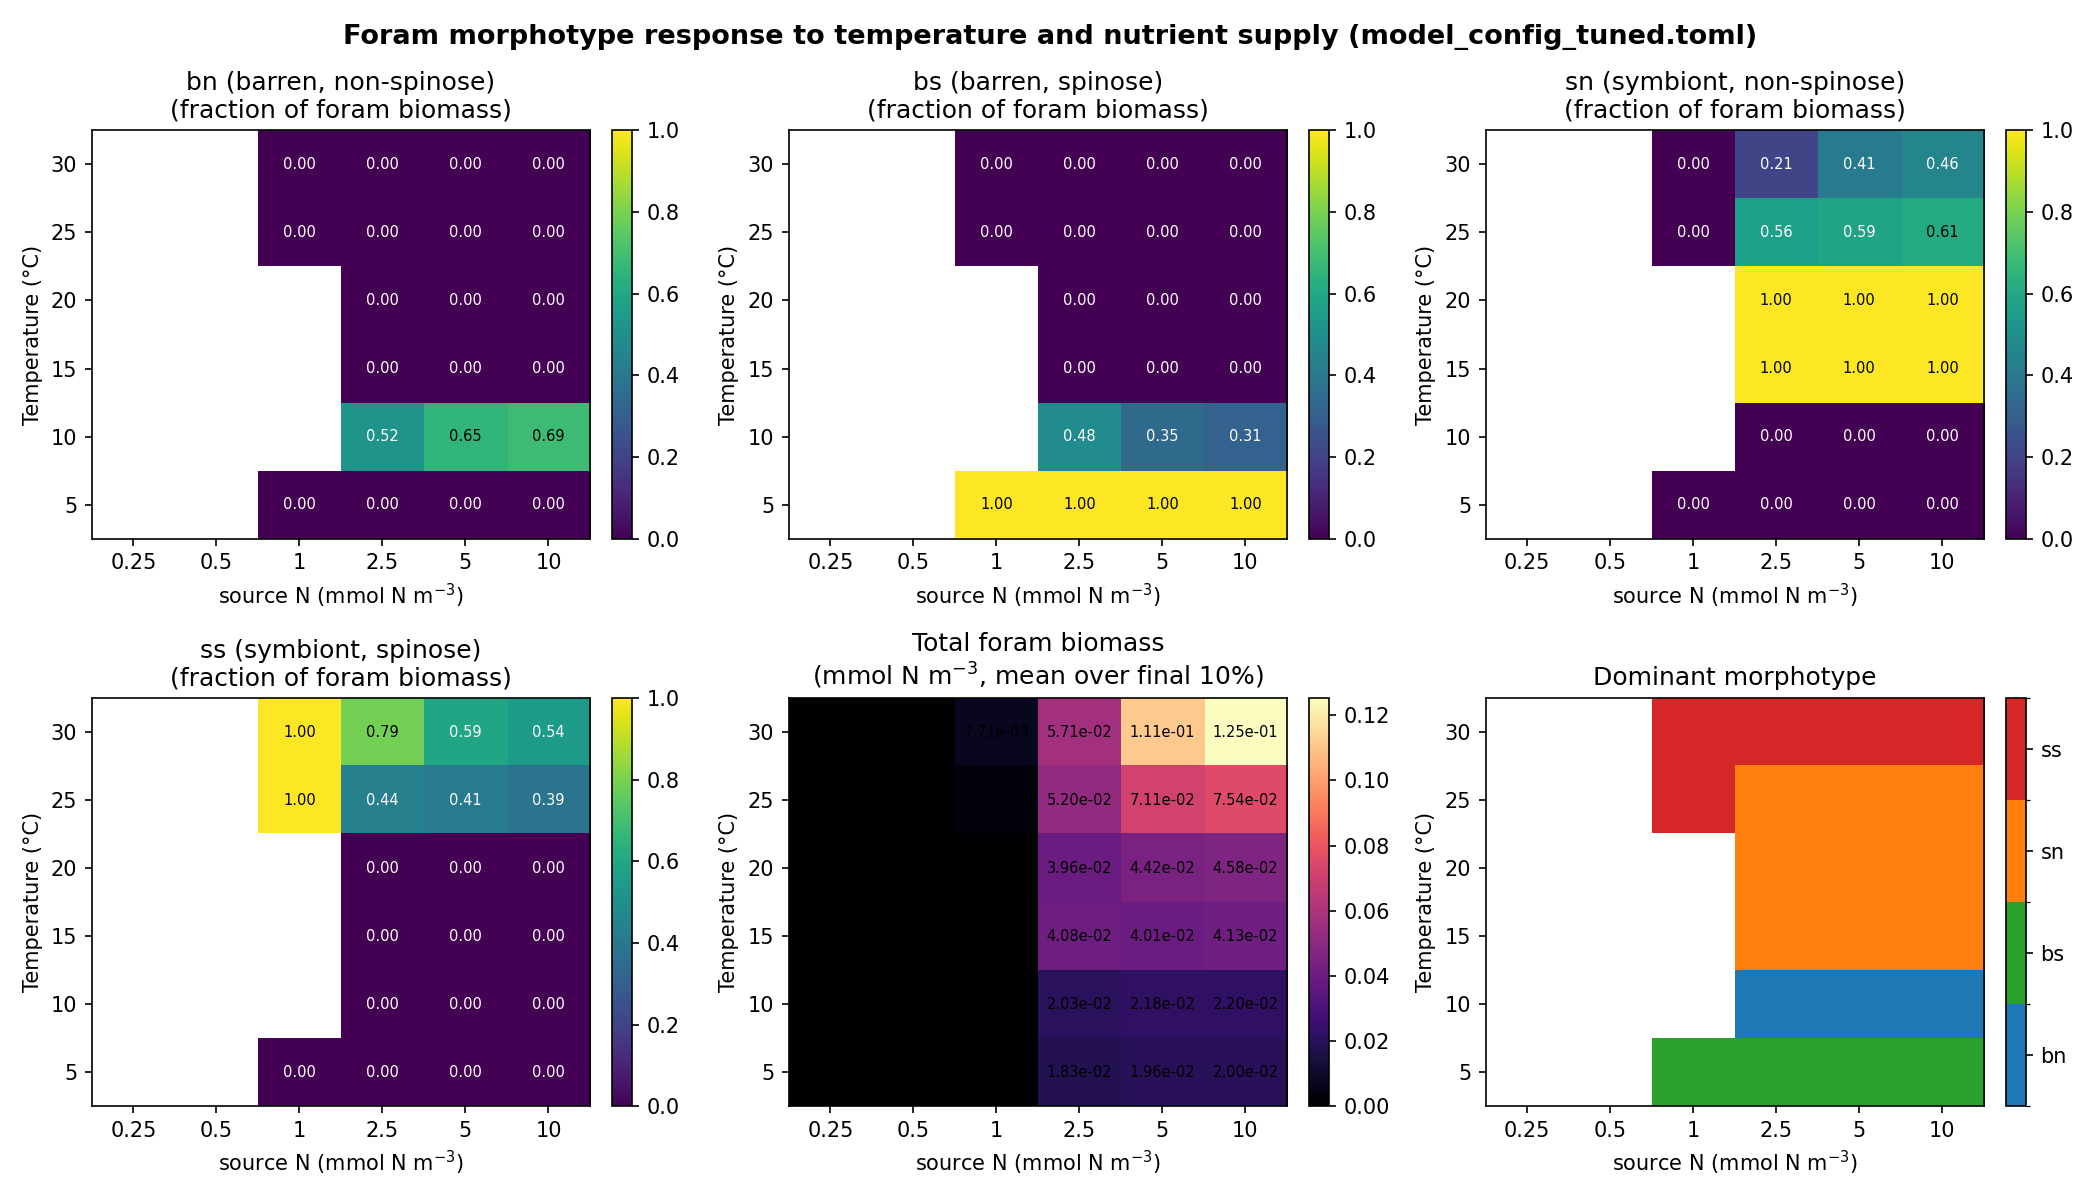
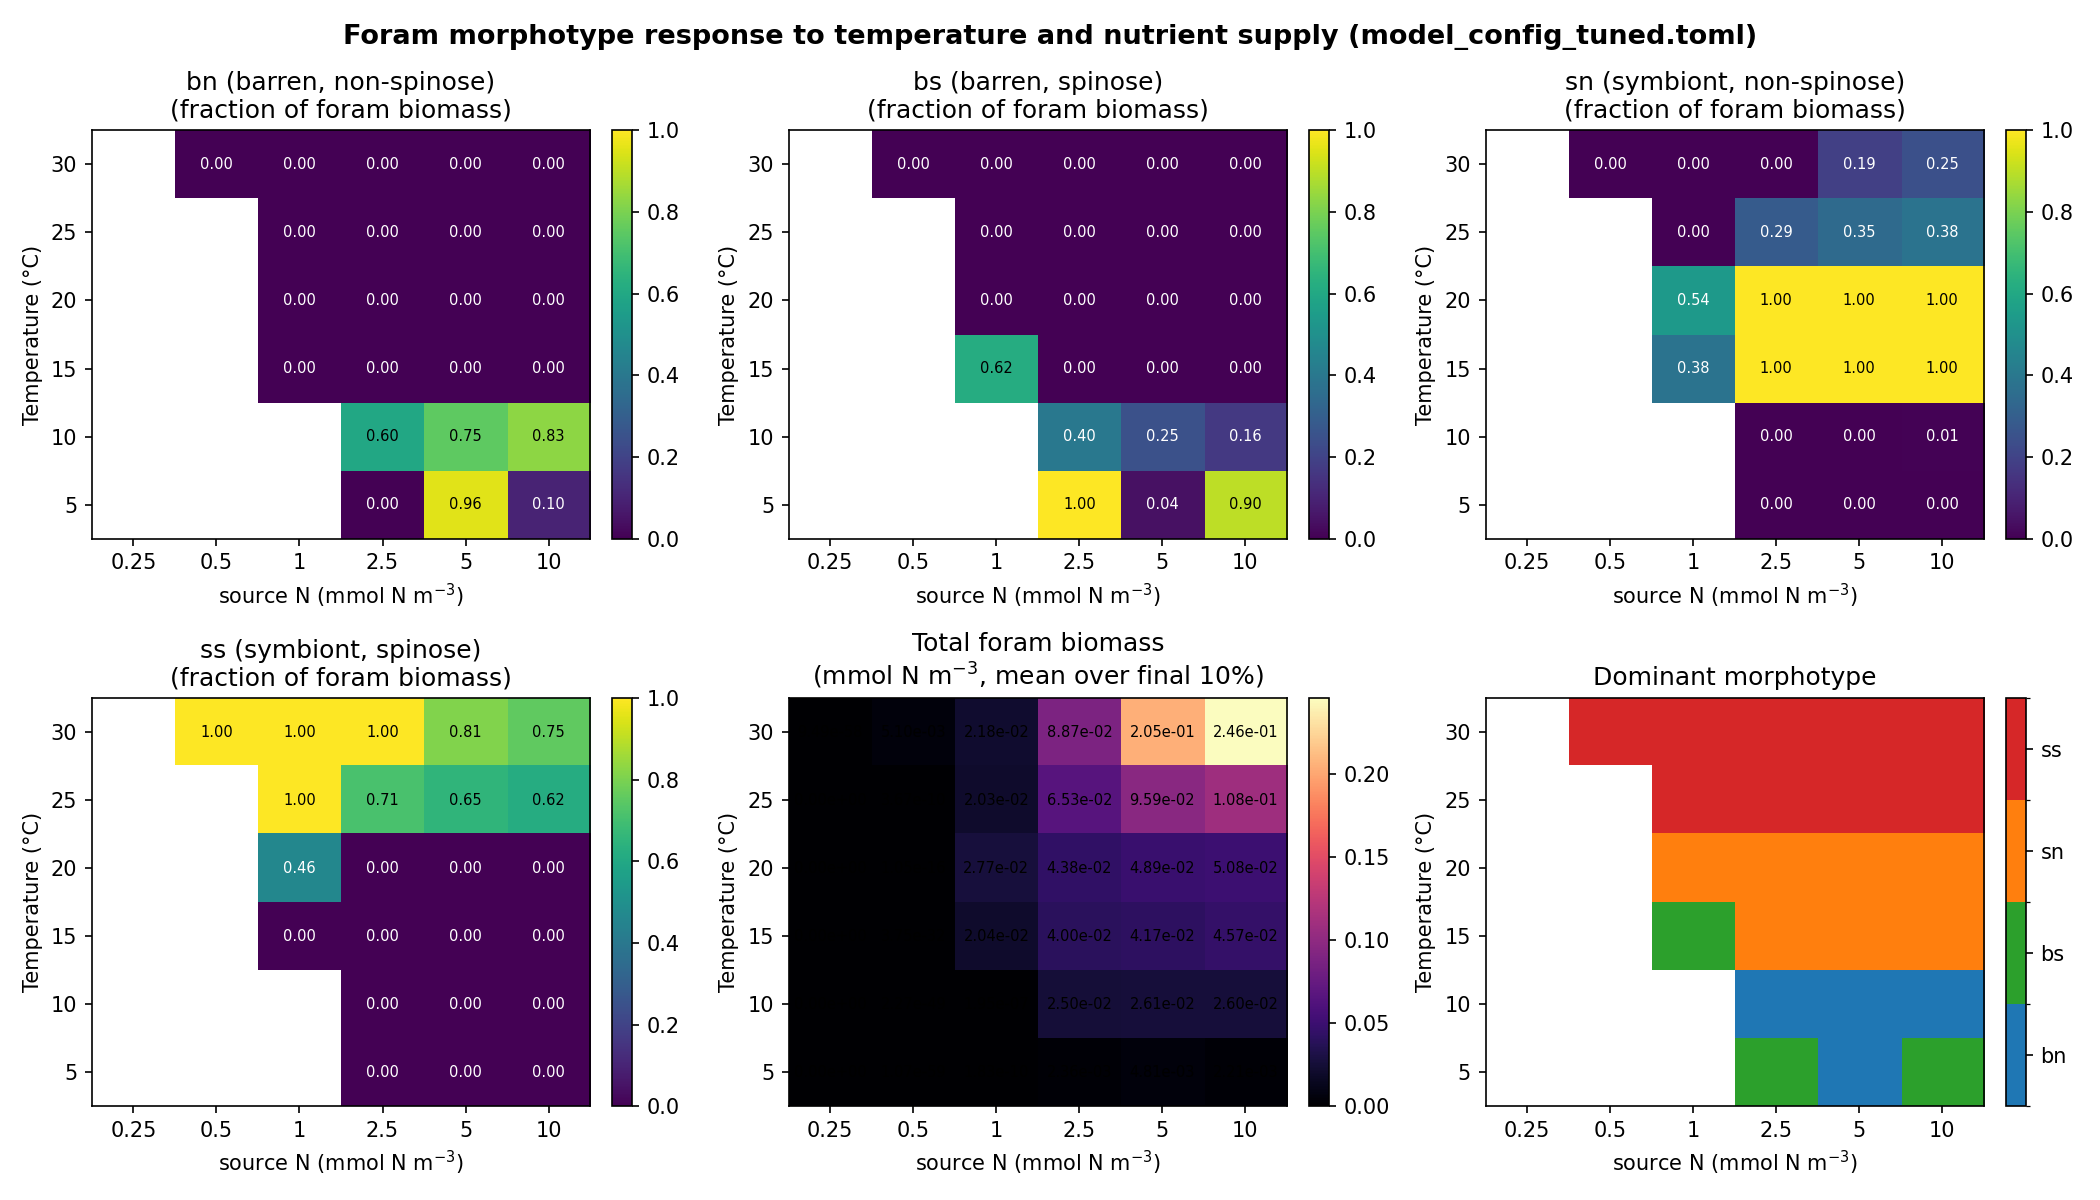
charge foram calcification as a cut in max growth, not respiration
New trait-based options foram_growth_cost (all forams) and
foram_spinose_growth_cost (spinose forams, in place of the first) scale
foram Gmax and symbiont mumax by (1 - cost). Both default to 0, so
model_config.toml still matches FORAMECOGEM.

The tuned config drops calcite_respir to 0 and uses 0.3 / 0.5. A per-day
respiration starved forams where food is scarce and, being
temperature-scaled, made spines look cheap in cold water. In a scan of
27 settings, the spinose-minus-all gap sets bn vs bs (about 0.2 keeps
both) and the level sets how far sn reaches into cold eutrophic water.

diff --git a/chemostat.py b/chemostat.py
@@ -7,6 +7,10 @@ class Chemostat:
     """
     A theoretical size-based model of plankton in a chemostat, adapted from Grigoratou et al. 2019 BG.
     """
+    # calcification as a share of foram max growth (not in FORAMECOGEM; 0 = off).
+    # Spinose forams pay foram_spinose_growth_cost in place of foram_growth_cost.
+    foram_growth_cost = 0.0
+    foram_spinose_growth_cost = 0.0
     
     def __init__(self,temp,nutrient):  
         self.T = temp+273.15   # ambient water temperature in Kelvin
@@ -252,6 +256,10 @@ class Chemostat:
                 self.m[i]    = self.m[i] * self.cal_pm
                 # extra respiration cost for building calcite test (col 10) — spinose pay more
                 self.resp[i] = self.resp[i] + self.foram_calc_resp[i]
+                # calcification cuts max growth: grazing and symbiont uptake alike
+                keep = 1.0 - (self.foram_spinose_growth_cost if self.is_spinose[i] else self.foram_growth_cost)
+                self.Gmax[i] *= keep
+                self.mumax[i] *= keep
             # symbiont-bearing forams pay an additional heterotrophic cost
             # (ecogem_data.f90:558 — heterotrophy *= symbiont_hetero_cost for sn/ss)
             if self.is_symbiont[i]:

diff --git a/tests/test_chemostat.py b/tests/test_chemostat.py
@@ -223,6 +223,19 @@ def test_foram_prey_switching_raises_kernel_times_biomass_to_ns(model):
     assert dBdt[j] == pytest.approx(graze.sum() * B[j] * model.lamda)
 
 
+def test_foram_growth_cost_lowers_max_growth(model):
+    """Calcification cuts foram max growth (grazing and symbiont uptake); spinose pay their own share."""
+    F = model.PFT_F_bool
+    Gmax0, mumax0 = model.Gmax.copy(), model.mumax.copy()
+    model.foram_growth_cost, model.foram_spinose_growth_cost = 0.2, 0.4
+    model._assign_plank_par()
+    keep = np.where(model.is_spinose[F], 0.6, 0.8)
+    assert np.allclose(model.Gmax[F], Gmax0[F] * keep)
+    assert np.allclose(model.mumax[F], mumax0[F] * keep)
+    assert np.allclose(model.Gmax[~F], Gmax0[~F])
+    assert np.allclose(model.mumax[~F], mumax0[~F])
+
+
 def test_foram_calcite_respiration_added(model):
     """resp[F] = resp_p + per-morphotype calcite_respir; spinose pay more."""
     for j in np.flatnonzero(model.PFT_F_bool):
